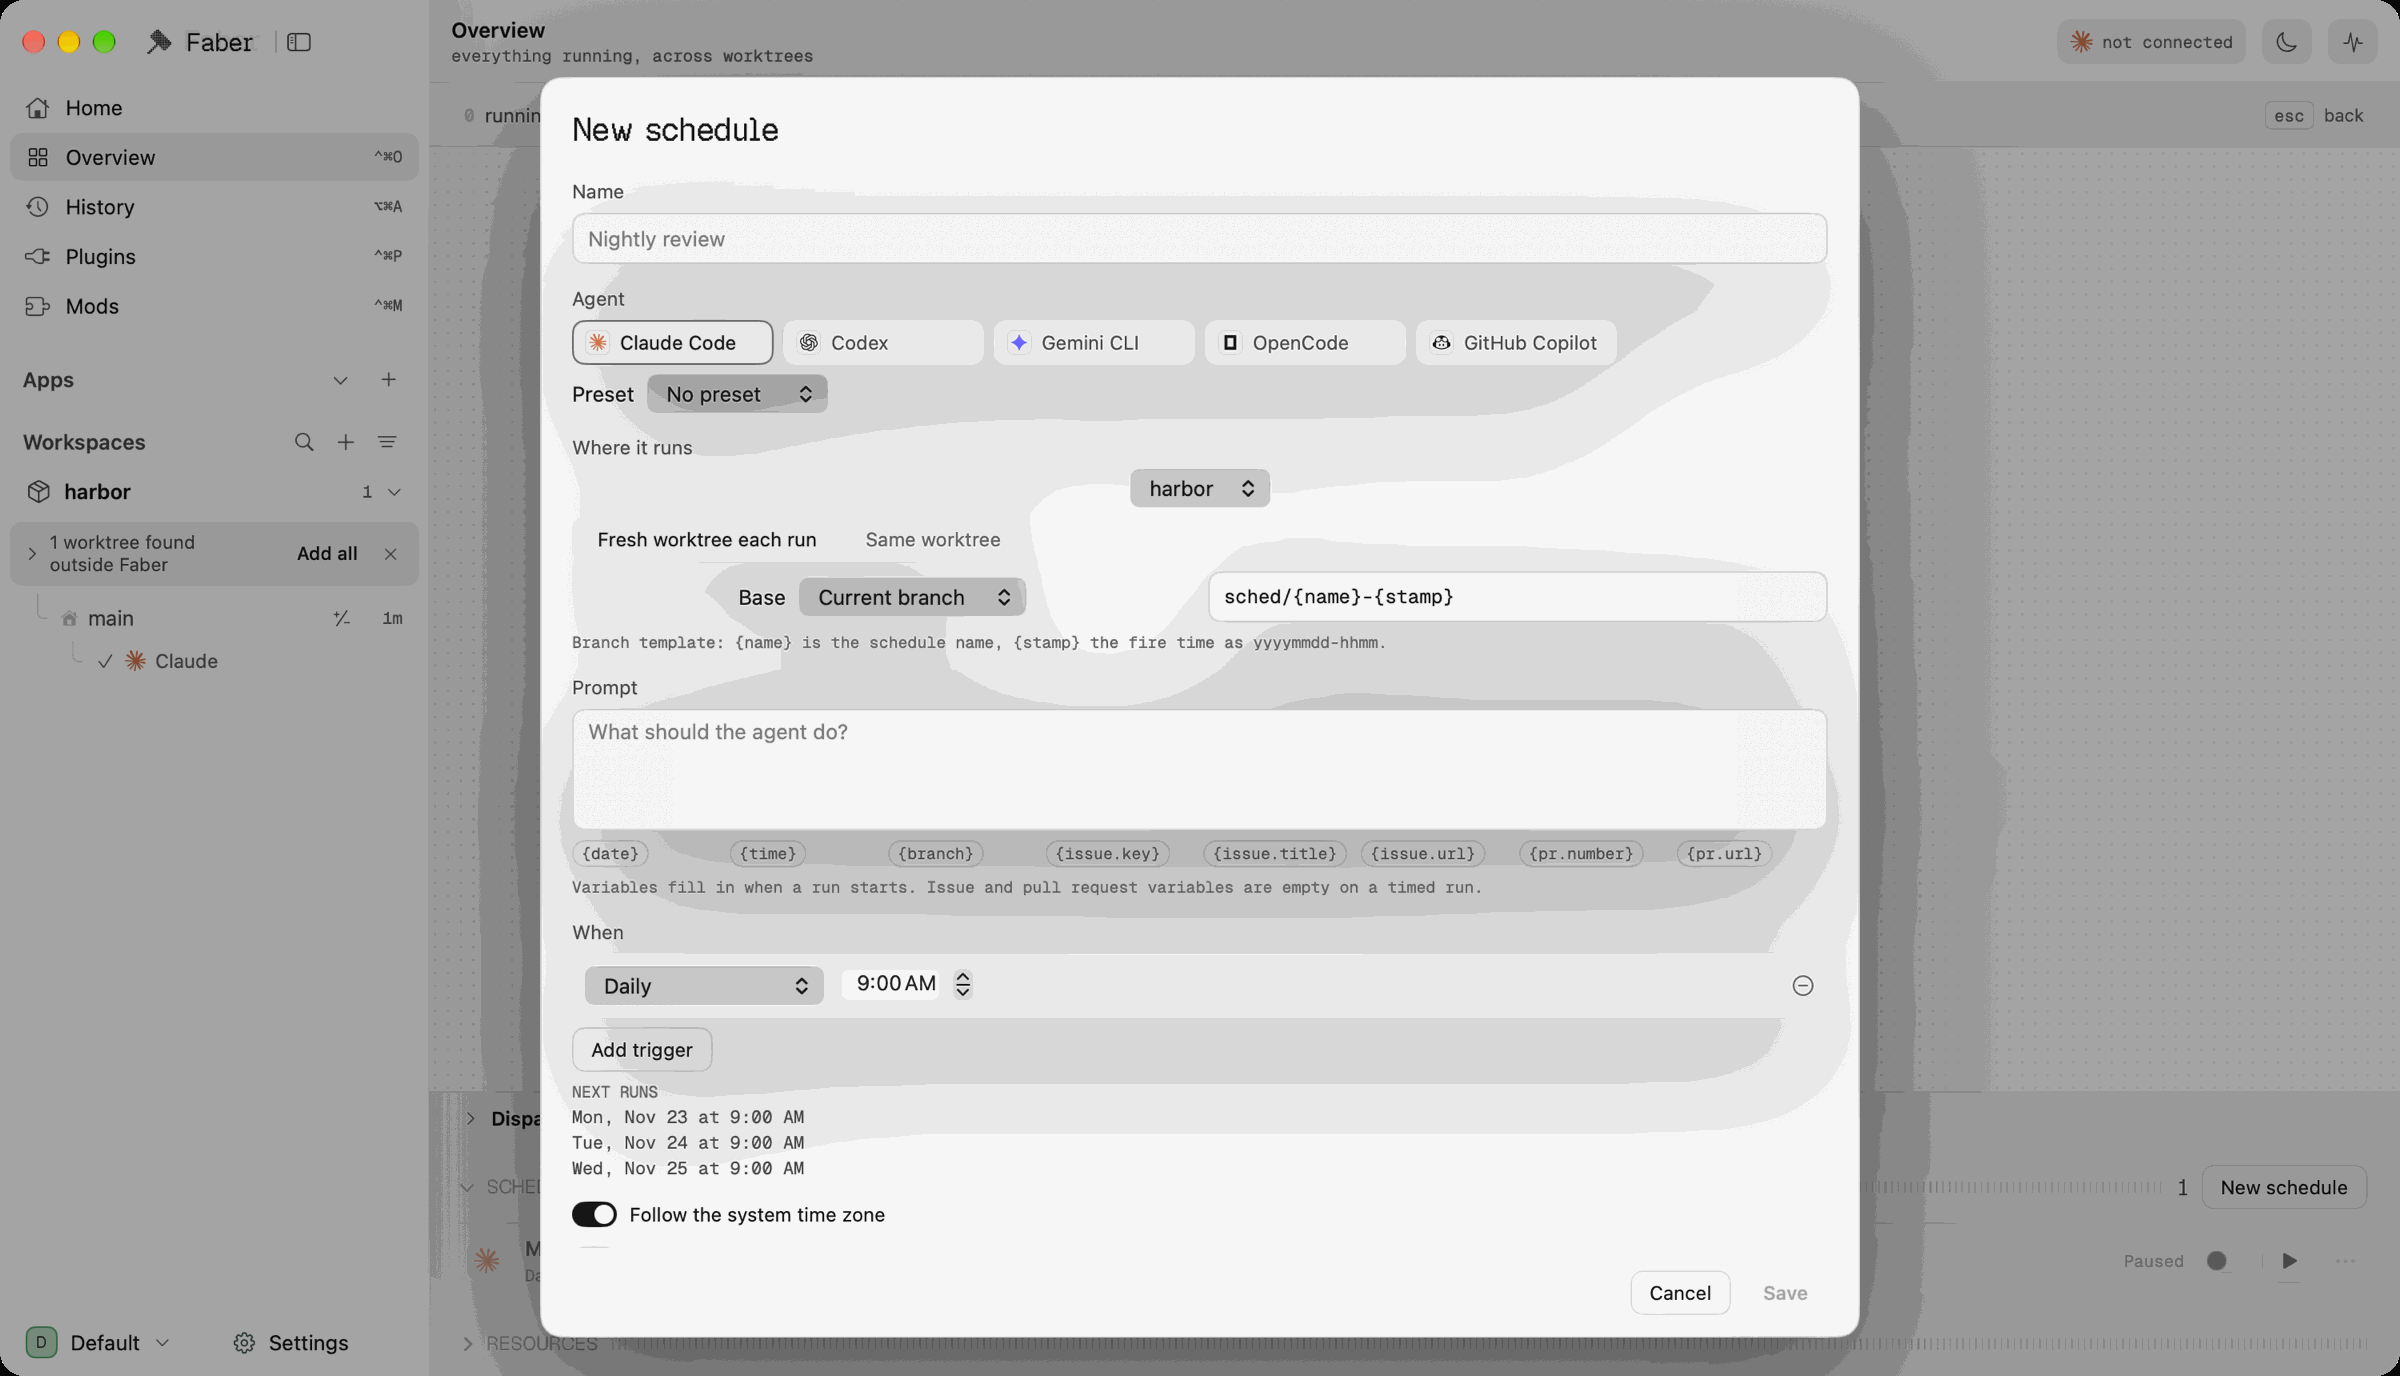
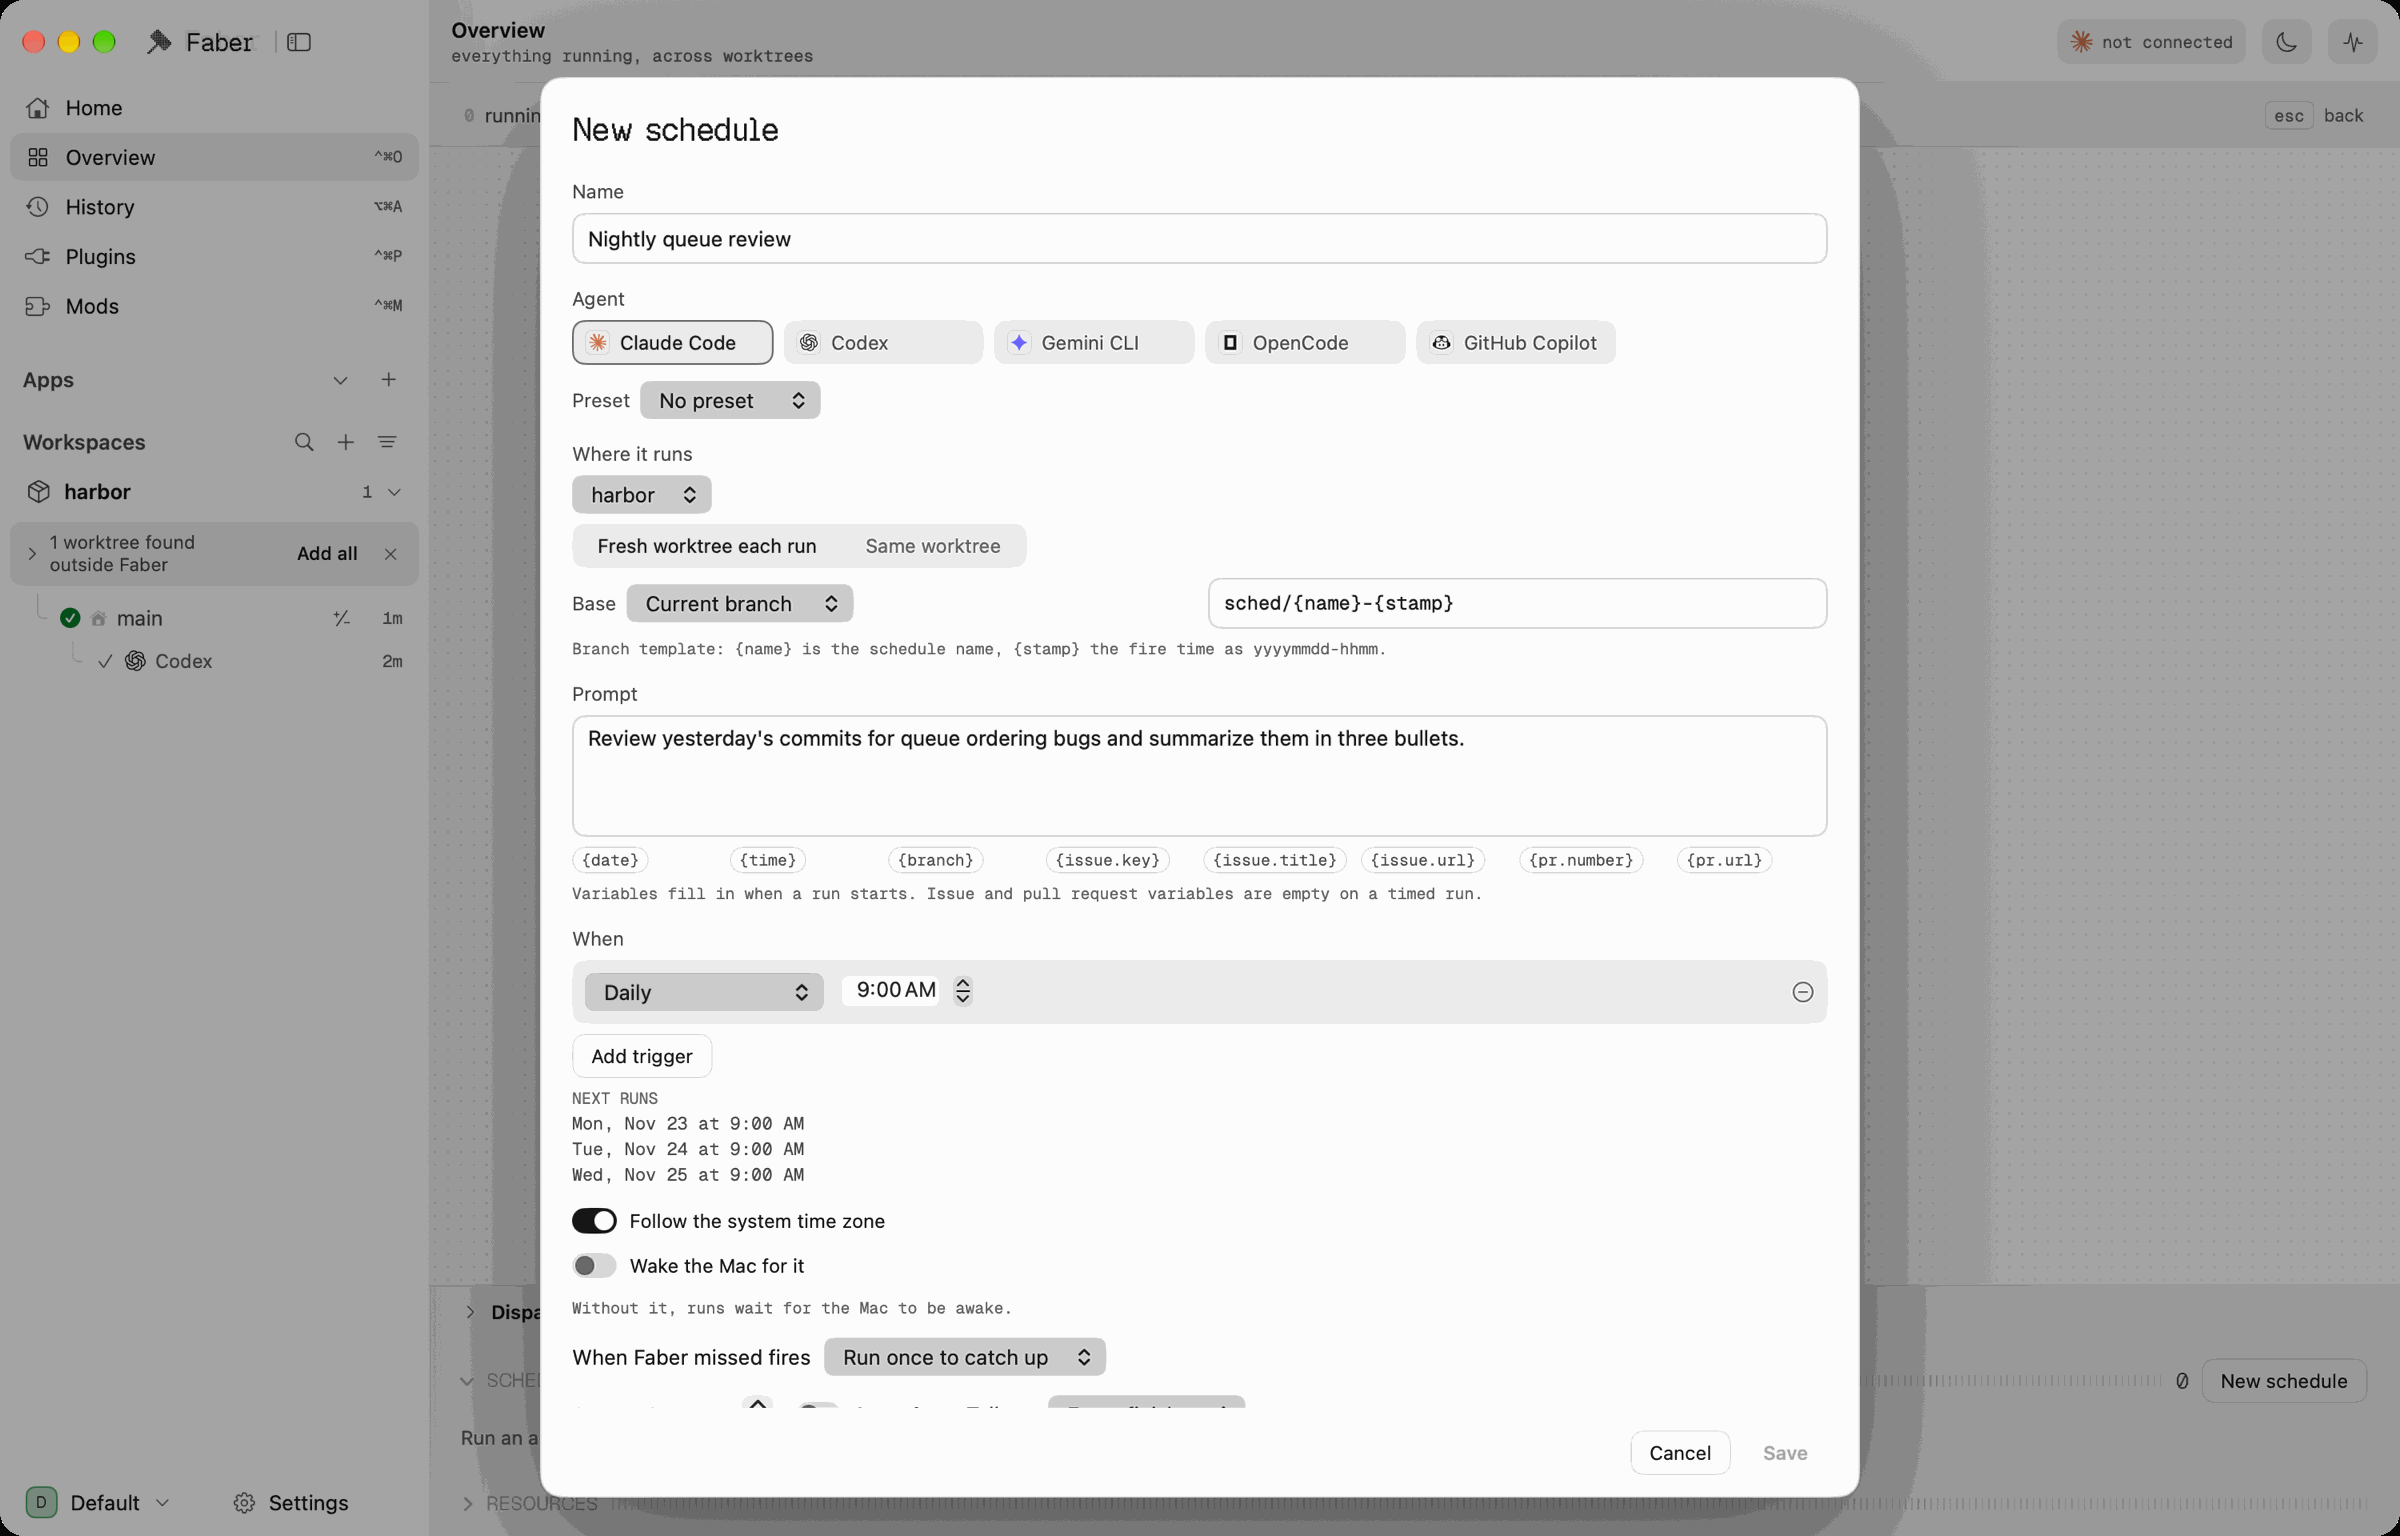
docs(screens): add chat, history, layouts and remaining Mac screenshots

diff --git a/docs/assets/screens/SHOTLIST.md b/docs/assets/screens/SHOTLIST.md
@@ -1,6 +1,6 @@
 # Screenshot shot list
 
-Every image the docs and README reference lives here as `<id>.png`, in this folder. None exist yet. Capture each one in a throwaway workspace (never a private repo), hide personal data, and save as PNG.
+Every image the docs and README reference lives here as `<id>.png`, in this folder. Files marked dropped have no image and no page reference. Capture each one in a throwaway workspace (never a private repo), hide personal data, and save as PNG.
 
 Guidelines: Mac shots at 2x, window about 1400 to 1600 px wide, light or dark but be consistent; iPhone shots from demo mode. Keep each file under 600 KB (pngquant is fine).
 
@@ -16,11 +16,11 @@ Guidelines: Mac shots at 2x, window about 1400 to 1600 px wide, light or dark bu
 | `git-and-prs-2.png` | features/git-and-prs | The conflict resolver | Create a merge conflict in a temp repo and capture the resolver. |
 | `history-1.png` | features/history | The History page with a session selected | Show the list with search and a selected session detail. |
 | `insomnia-1.png` | features/insomnia | The Keep awake settings | Capture the General pane Keep awake section. |
-| `pip-1.png` | features/pip | A floated tab over another app | Float a terminal tab and place it over a browser window on a second display if you have one. |
+| `pip-1.png` | features/pip | A floated tab over another app | Float a terminal tab and place it over a browser window on a second display if you have one. | **dropped: the floating tab is shown by pip-float.gif instead** |
 | `plugins-skills-mcp-1.png` | features/plugins-skills-mcp | The Plugins page with servers and skills | Capture the overview with a few agents installed. |
 | `privacy-and-telemetry-1.png` | features/privacy-and-telemetry | Settings, Privacy and Sync with the usage switch | Capture the pane with What's sent expanded. |
-| `quick-composer-and-wheel-1.png` | features/quick-composer-and-wheel | The quick composer floating over a browser | Enable the hotkey, open it over another app and capture it with a target selected. |
-| `quick-composer-and-wheel-2.png` | features/quick-composer-and-wheel | The Quick Wheel with eight slots | Hold the trigger in a worktree and capture the wheel with a wedge highlighted. |
+| `quick-composer-and-wheel-1.png` | features/quick-composer-and-wheel | The quick composer floating over a browser | Enable the hotkey, open it over another app and capture it with a target selected. | **dropped: the panel is translucent and a window capture shows only grey; needs the global hotkey over another app** |
+| `quick-composer-and-wheel-2.png` | features/quick-composer-and-wheel | The Quick Wheel with eight slots | Hold the trigger in a worktree and capture the wheel with a wedge highlighted. | **dropped: the wheel needs the held global trigger** |
 | `scheduled-agents-1.png` | features/scheduled-agents | The schedule editor with triggers and next runs | Open the editor on a daily schedule with the NEXT RUNS preview visible. |
 | `settings-and-themes-1.png` | features/settings-and-themes | The Appearance pane with a theme backdrop | Pick a theme with a visible backdrop and capture Settings, Appearance. |
 | `simulator-1.png` | features/simulator | A Simulator column beside a chat | Boot an iPhone simulator with any app and capture it in a column. |
@@ -29,10 +29,10 @@ Guidelines: Mac shots at 2x, window about 1400 to 1600 px wide, light or dark bu
 | `usage-and-home-2.png` | features/usage-and-home | The Accounts and Usage settings pane | Capture the pane showing limit bars. |
 | `workspaces-and-layouts-1.png` | features/workspaces-and-layouts | A worktree strip with three columns | Show a worktree with a terminal, a chat and a diff column, sidebar open. |
 | `index-1.png` | index | The Faber main window with a worktree, a terminal agent column and a chat column | Open a repo with two columns: an agent terminal on the left, a chat column on the right. Light or dark, whichever looks better. Window about 1600 px wide. |
-| `install-and-update-1.png` | install-and-update | The Releases page with the Faber zip highlighted | Screenshot of the latest GitHub release page with the Faber asset visible. |
+| `install-and-update-1.png` | install-and-update | The Releases page with the Faber zip highlighted | Screenshot of the latest GitHub release page with the Faber asset visible. | **dropped: needs a live GitHub release page** |
 | `install-and-update-2.png` | install-and-update | The first-run welcome showing the agents screen | Reset Faber state in a temp profile and capture the first welcome screen. |
 | `mods-overview-1.png` | mods/overview | The Mods page with installed mods | Install a couple of seed mods and capture the Mods page. |
-| `phone-features-1.png` | phone/features | An approval card on the iPhone | Capture an Allow, Deny, Always card in demo mode. |
-| `phone-overview-1.png` | phone/overview | The iPhone app showing workspaces and a waiting approval | Take it from the iPhone in demo mode; use a device frame if you like. |
+| `phone-features-1.png` | phone/features | An approval card on the iPhone | Capture an Allow, Deny, Always card in demo mode. | **dropped: needs an iPhone in demo mode** |
+| `phone-overview-1.png` | phone/overview | The iPhone app showing workspaces and a waiting approval | Take it from the iPhone in demo mode; use a device frame if you like. | **dropped: needs an iPhone in demo mode** |
 | `phone-pairing-1.png` | phone/pairing | The Mac's Settings, Devices pane with a pairing QR code | Click Pair new iPhone and capture the pane; blur the code. |
-| `hero-phone-1.png` | README | Faber Companion on an iPhone | Optional. iPhone in demo mode showing an approval card. |
+| `hero-phone-1.png` | README | Faber Companion on an iPhone | Optional. iPhone in demo mode showing an approval card. | **dropped: needs an iPhone in demo mode** |

diff --git a/docs/features/quick-composer-and-wheel.md b/docs/features/quick-composer-and-wheel.md
@@ -10,8 +10,6 @@ A floating panel over any app for a fast message to an agent.
 2. Press the key. Pick a running agent or chat, or a new chat in a worktree. The last used target is selected and Tab cycles.
 3. Type and press Return to send and bring Faber forward. Cmd Return sends and stays where you are. Esc closes.
 
-![The quick composer floating over a browser](../assets/screens/quick-composer-and-wheel-1.png)
-
 ## Quick Wheel
 
 A radial menu of your own actions. Hold the trigger (Opt Cmd by default), move to aim, release to fire. Settings, Quick Actions can also open it pinned with a middle mouse click.
@@ -20,8 +18,6 @@ A radial menu of your own actions. Hold the trigger (Opt Cmd by default), move t
 - Slots can be a prompt, a shell command or a group, and can start an agent.
 - Prompts accept variables such as the selection, branch, clipboard and diff.
 - Copy prompt link on a prompt wedge makes a shareable `faber://prompt` link. Opening one never runs anything: Faber shows a review sheet first.
-
-![The Quick Wheel with eight slots](../assets/screens/quick-composer-and-wheel-2.png)
 
 ## Controller keys
 

diff --git a/docs/phone/features.md b/docs/phone/features.md
@@ -2,8 +2,6 @@
 title: Phone features
 description: Approvals, chat, terminals, changes, files, pull requests, usage, widgets and more.
 ---
-![An approval card on the iPhone](../assets/screens/phone-features-1.png)
-
 - Approvals: Allow, Deny, Always Allow or Reply, from the app or the notification.
 - Chat: read and send to agent chats, with photos from the picker or camera, and dictation on the device.
 - Terminals: watch and type into terminals, if you allowed terminal access.

diff --git a/docs/install-and-update.md b/docs/install-and-update.md
@@ -14,8 +14,6 @@ description: Download Faber, first run, command line setup and automatic updates
 2. Unzip it and drag Faber to Applications.
 3. Open Faber. Releases are signed with a Developer ID and notarized by Apple, so Gatekeeper opens them without a warning.
 
-![The Releases page with the Faber zip highlighted](assets/screens/install-and-update-1.png)
-
 ## First run
 
 A Mac with no workspace and no earlier settings opens a three-screen welcome in the main window:

diff --git a/docs/phone/overview.md b/docs/phone/overview.md
@@ -4,8 +4,6 @@ description: Watch, approve and steer the agents on your Mac from your iPhone.
 ---
 Faber Companion shows and steers the coding agents running on your own Mac. The agents keep running on the Mac. The phone is a remote.
 
-![The iPhone app showing workspaces and a waiting approval](../assets/screens/phone-overview-1.png)
-
 ## What you need
 
 - Faber for Mac, running.
